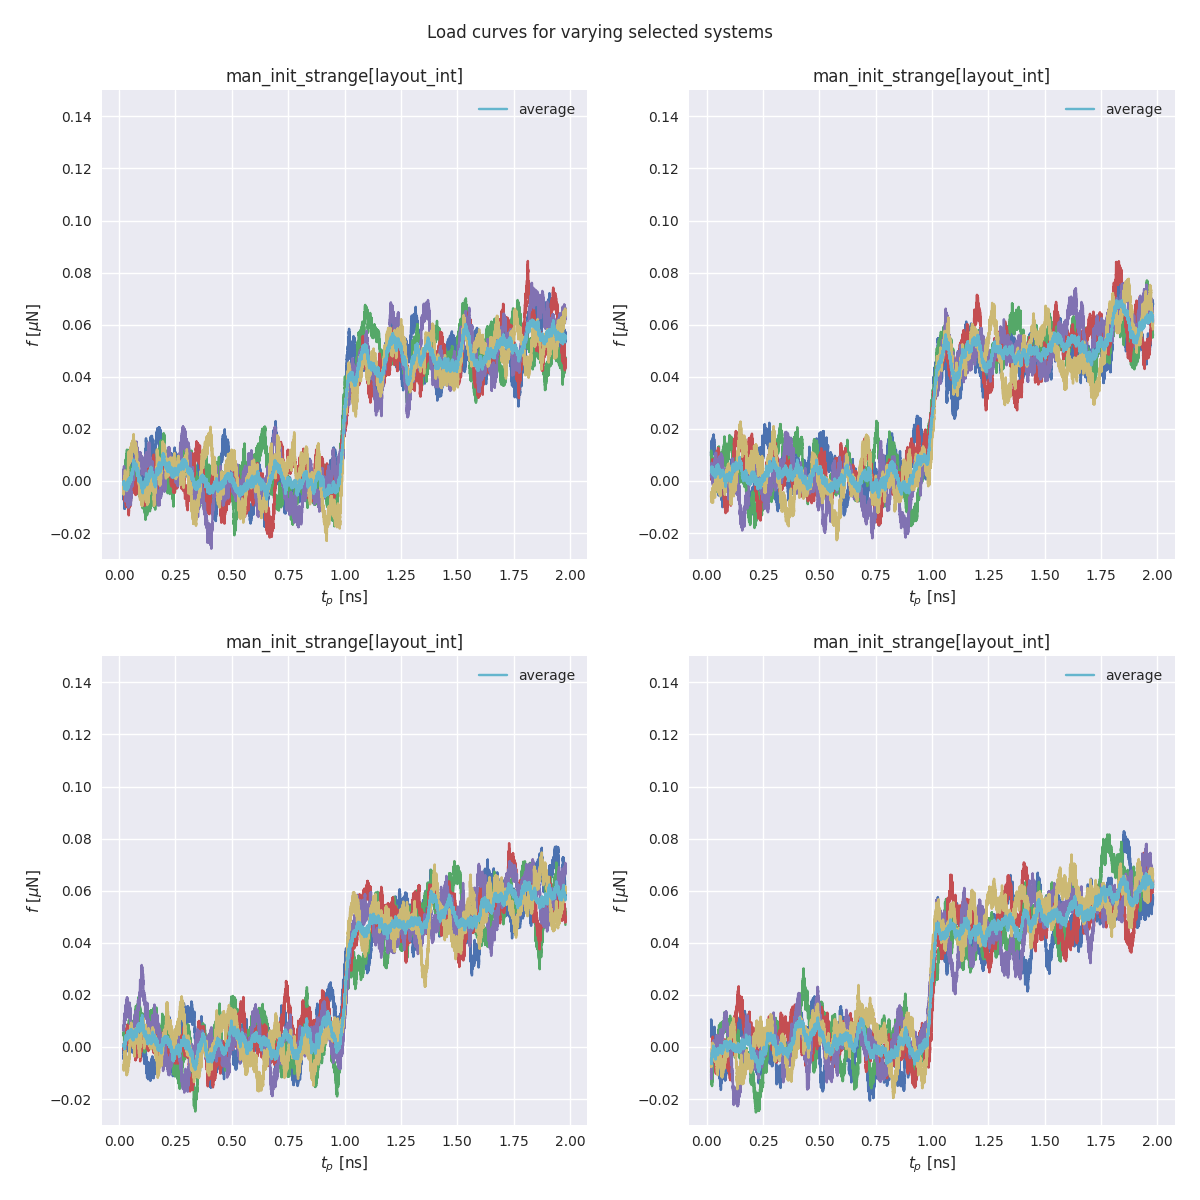
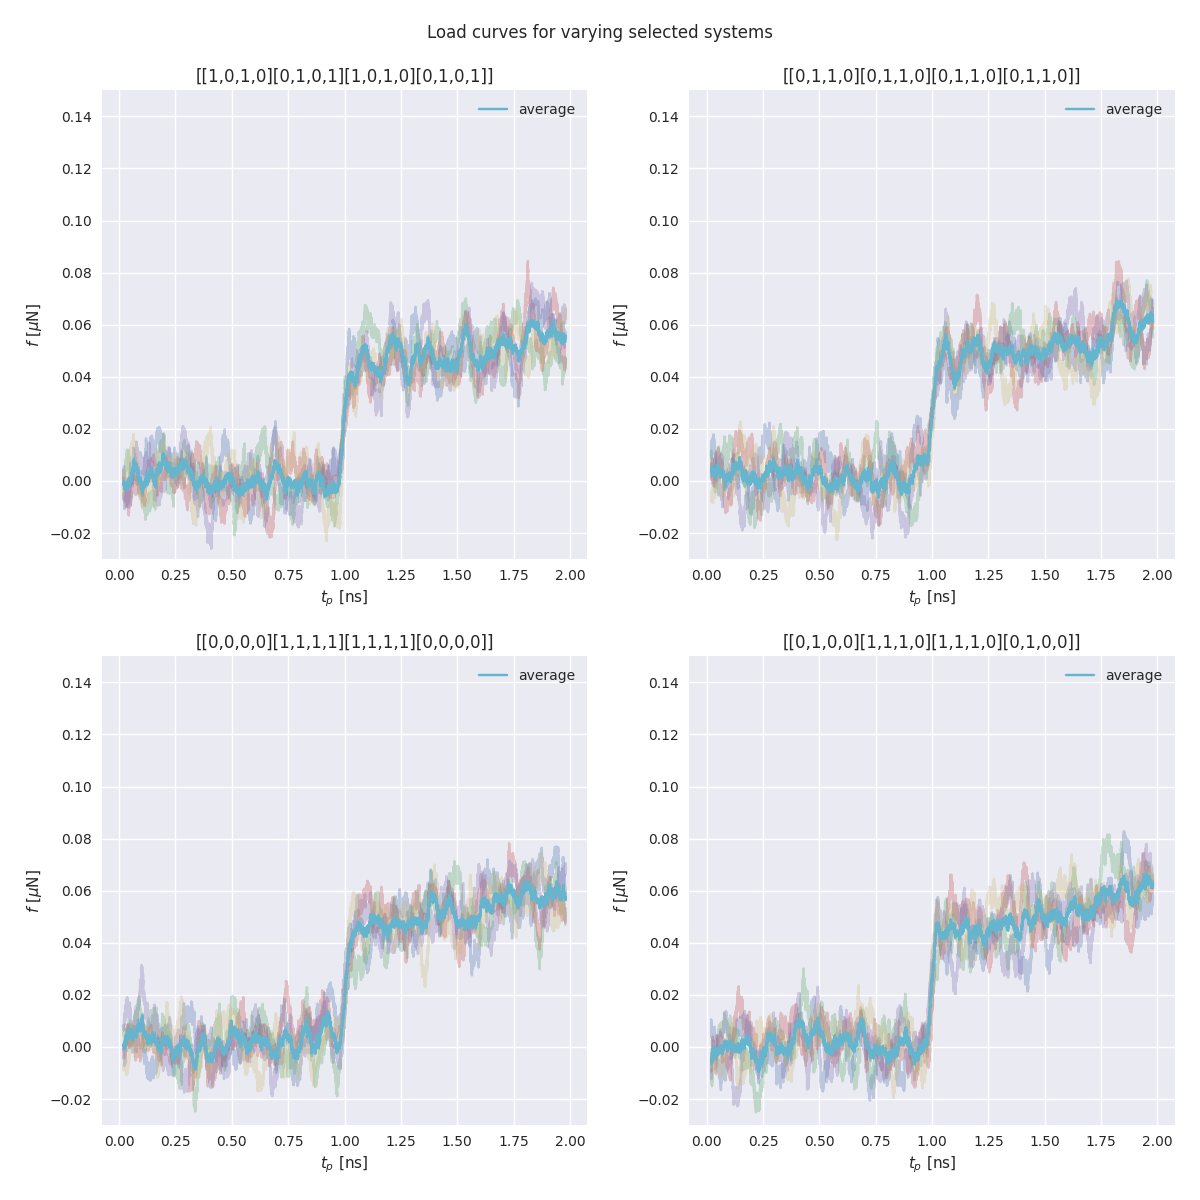
WAYPOINT, vary normforce in plot loadcurves now works seemingly

diff --git a/python/plot/plot_load_curves.py b/python/plot/plot_load_curves.py
@@ -460,7 +460,7 @@ def load_vs_normal_force():
         #assert len(glob(heights_file)) == 1
         
         for curve in load_curves_all:
-            axs[i].plot(curve[:,0], curve[:,1])#, alpha = 0.3)
+            axs[i].plot(curve[:,0], curve[:,1], alpha = 0.3)
         #height plot 
         
         #data = np.loadtxt(maxz_file)
@@ -482,7 +482,7 @@ def load_vs_normal_force():
         axs[i].set_ylim([-0.03, 0.15])
         axs[i].set_xlabel(r"$t_p$ [ns]")
         axs[i].set_ylabel(r"$f$ [$\mu$N]")
-        axs[i].set_title(f'man_init_strange[layout_int]')
+        axs[i].set_title(f'{man_init_strange[layout_int]}')
     
     plt.suptitle(f"Load curves for varying selected systems")
     plt.legend()
